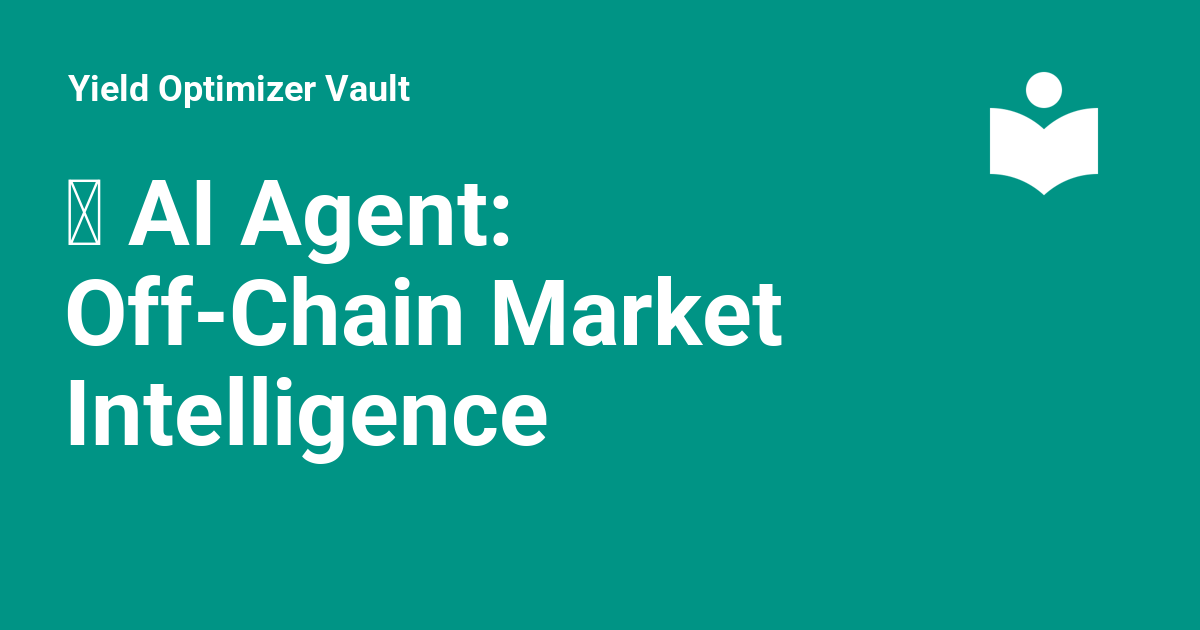
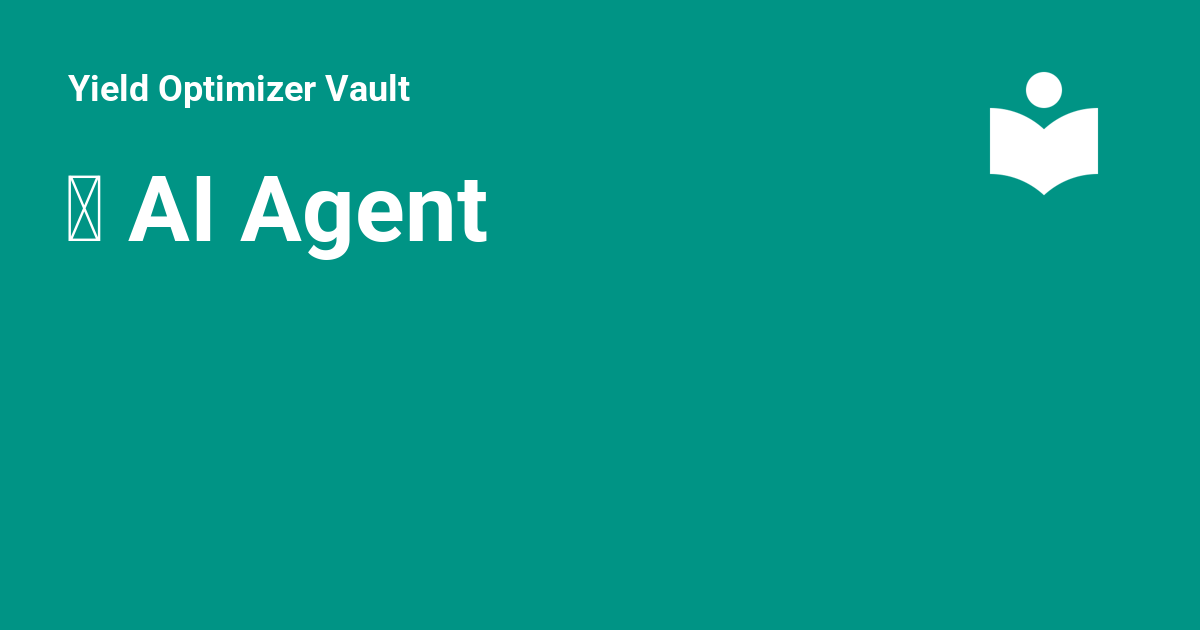
Deployed cb2af845 with MkDocs version: 1.6.1

Changed region(s): [[0.0308, 0.2714, 0.6475, 0.573], [0.0308, 0.573, 0.4625, 0.754]]

diff --git a/ai-agent/index.html b/ai-agent/index.html
@@ -20,7 +20,7 @@
     
     
       
-        <title>🤖 AI Agent: Off-Chain Market Intelligence - Yield Optimizer Vault</title>
+        <title>🤖 AI Agent - Yield Optimizer Vault</title>
       
     
     
@@ -55,7 +55,7 @@
       
         <meta  property="og:type"  content="website" >
       
-        <meta  property="og:title"  content="🤖 AI Agent: Off-Chain Market Intelligence - Yield Optimizer Vault" >
+        <meta  property="og:title"  content="🤖 AI Agent - Yield Optimizer Vault" >
       
         <meta  property="og:description"  content="None" >
       
@@ -71,7 +71,7 @@
       
         <meta  name="twitter:card"  content="summary_large_image" >
       
-        <meta  name="twitter:title"  content="🤖 AI Agent: Off-Chain Market Intelligence - Yield Optimizer Vault" >
+        <meta  name="twitter:title"  content="🤖 AI Agent - Yield Optimizer Vault" >
       
         <meta  name="twitter:description"  content="None" >
       
@@ -98,7 +98,7 @@
     <div data-md-component="skip">
       
         
-        <a href="#ai-agent-off-chain-market-intelligence" class="md-skip">
+        <a href="#ai-agent" class="md-skip">
           Skip to content
         </a>
       
@@ -132,7 +132,7 @@
         <div class="md-header__topic" data-md-component="header-topic">
           <span class="md-ellipsis">
             
-              🤖 AI Agent: Off-Chain Market Intelligence
+              🤖 AI Agent
             
           </span>
         </div>
@@ -279,7 +279,7 @@
   
     
   
-  🤖 AI Agent: Off-Chain Market Intelligence
+  🤖 AI Agent
 
       </a>
     </li>
@@ -443,7 +443,7 @@
   
   
   <span class="md-ellipsis">
-    🤖 AI Agent: Off-Chain Market Intelligence
+    🤖 AI Agent
     
   </span>
   
@@ -456,7 +456,7 @@
   
   
   <span class="md-ellipsis">
-    🤖 AI Agent: Off-Chain Market Intelligence
+    🤖 AI Agent
     
   </span>
   
@@ -604,7 +604,7 @@
 
 
 
-<h1 id="ai-agent-off-chain-market-intelligence">🤖 AI Agent: Off-Chain Market Intelligence</h1>
+<h1 id="ai-agent">🤖 AI Agent</h1>
 <p>The off-chain AI agent is a core intelligence layer of the Yield Optimizer protocol, built using <strong>ElizaOS</strong>. It continuously monitors DeFi markets and computes the most suitable strategy based on user risk preferences. The output is stored in ElizaOS Key-Value (KV) storage and accessed by <strong>Chainlink Automation</strong> to update vault strategy allocations.</p>
 <hr />
 <h2 id="core-responsibilities">🎯 Core Responsibilities</h2>

diff --git a/404.html b/404.html
@@ -242,7 +242,7 @@
   
     
   
-  🤖 AI Agent: Off-Chain Market Intelligence
+  🤖 AI Agent
 
       </a>
     </li>
@@ -397,7 +397,7 @@
   
   
   <span class="md-ellipsis">
-    🤖 AI Agent: Off-Chain Market Intelligence
+    🤖 AI Agent
     
   </span>
   

diff --git a/Main Contracts/index.html b/Main Contracts/index.html
@@ -279,7 +279,7 @@
   
     
   
-  🤖 AI Agent: Off-Chain Market Intelligence
+  🤖 AI Agent
 
       </a>
     </li>
@@ -626,7 +626,7 @@
   
   
   <span class="md-ellipsis">
-    🤖 AI Agent: Off-Chain Market Intelligence
+    🤖 AI Agent
     
   </span>
   

diff --git a/architecture/index.html b/architecture/index.html
@@ -277,7 +277,7 @@
   
     
   
-  🤖 AI Agent: Off-Chain Market Intelligence
+  🤖 AI Agent
 
       </a>
     </li>
@@ -434,7 +434,7 @@
   
   
   <span class="md-ellipsis">
-    🤖 AI Agent: Off-Chain Market Intelligence
+    🤖 AI Agent
     
   </span>
   

diff --git a/developer-docs/index.html b/developer-docs/index.html
@@ -277,7 +277,7 @@
   
     
   
-  🤖 AI Agent: Off-Chain Market Intelligence
+  🤖 AI Agent
 
       </a>
     </li>
@@ -434,7 +434,7 @@
   
   
   <span class="md-ellipsis">
-    🤖 AI Agent: Off-Chain Market Intelligence
+    🤖 AI Agent
     
   </span>
   

diff --git a/index.html b/index.html
@@ -277,7 +277,7 @@
   
     
   
-  🤖 AI Agent: Off-Chain Market Intelligence
+  🤖 AI Agent
 
       </a>
     </li>
@@ -442,7 +442,7 @@
   
   
   <span class="md-ellipsis">
-    🤖 AI Agent: Off-Chain Market Intelligence
+    🤖 AI Agent
     
   </span>
   

diff --git a/usage/index.html b/usage/index.html
@@ -275,7 +275,7 @@
   
     
   
-  🤖 AI Agent: Off-Chain Market Intelligence
+  🤖 AI Agent
 
       </a>
     </li>
@@ -432,7 +432,7 @@
   
   
   <span class="md-ellipsis">
-    🤖 AI Agent: Off-Chain Market Intelligence
+    🤖 AI Agent
     
   </span>
   
